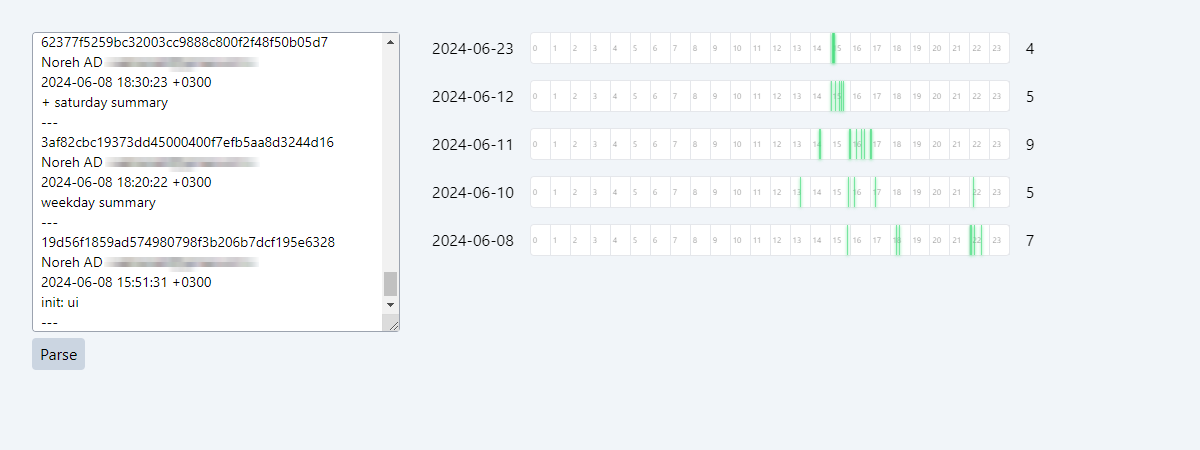
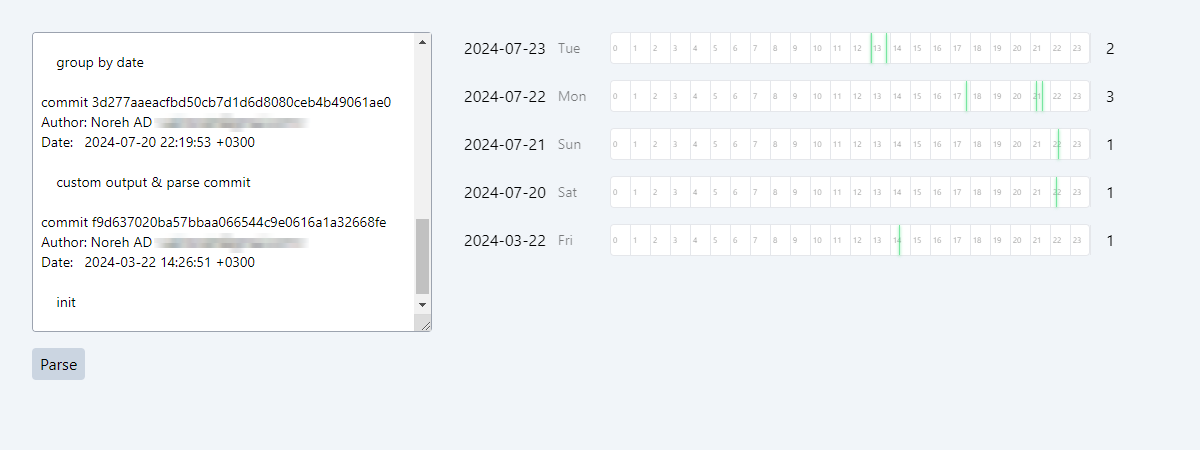
parse def git log output

diff --git a/commits-parser.js b/commits-parser.js
@@ -1,11 +1,10 @@
 let CommitsParser = {
 
-    parse: function parseCommits(text) {
-        let commitSeperator = "---"
+    parse: function parseCommits(logOutput) {
         let commits = [];
-        let commitsTexts = text.split(commitSeperator);
+        let commitsTexts = logOutput.split(/(?=^commit )/gm);
         for (const commitText of commitsTexts) {
-            if (commitText) {
+            if (commitText.trim().length) {
                 commits.push(CommitsParser.parseCommit(commitText));
             }
         }
@@ -14,17 +13,12 @@ let CommitsParser = {
 
     parseCommit: function parseCommit(commitText) {
         let result = {
-            hash: null,
-            author: null,
-            date: null,
-            subject: null,
+            hash: commitText.match(/^commit +(.+)$/m)?.[1] ?? null,
+            author: commitText.match(/^Author: +(.+)$/m)?.[1] ?? null,
+            date: commitText.match(/^Date: +(.+)$/m)?.[1] ?? null,
+            subject: commitText.split(/\n\n/)[1].split("\n")[0].trim(),
+            body: commitText.split(/\n\n/)[1].split("\n").slice(1).map(line => line.trim()).filter(line => line.length).join("\n"),
         };
-        commitText = commitText.trim();
-        let parts = commitText.split("\n");
-        result.hash = parts[0];
-        result.author = parts[1];
-        result.date = parts[2];
-        result.subject = parts[3];
         return result;
     },
 

diff --git a/index.html b/index.html
@@ -12,17 +12,17 @@
 
 <main class="h-[100vh] flex p-4">
     
-    <div class="min-w-[400px] h-full p-4">
+    <div class="w-fit h-full p-4">
         
         <textarea
             id="log-input-box"
-            class="p-2 border border-gray-400 rounded resize-y text-sm w-full min-h-[300px] max-h-[600px]"
+            class="p-2 border border-gray-400 rounded block resize text-sm min-h-[300px] max-h-[600px] min-w-[400px] max-w-[600px]"
             placeholder="git log output"
             ></textarea>
         
         <button
             id="parse-btn"
-            class="px-2 py-1 bg-slate-300 hover:bg-slate-400/50 active:bg-slate-400/60 rounded"
+            class="px-2 py-1 bg-slate-300 hover:bg-slate-400/50 active:bg-slate-400/60 rounded mt-4"
             >
             Parse
         </button>

diff --git a/README.md b/README.md
@@ -3,7 +3,7 @@
 Feed the output of the following command to the UI.
 
 ```
-git log --pretty=format:"%H%n%an <%ae>%n%ad%n%s%n---" --date=iso > commits.txt
+git log --date=iso > commits.txt
 ```
 
 ![screenshot of the UI](ss.png)
